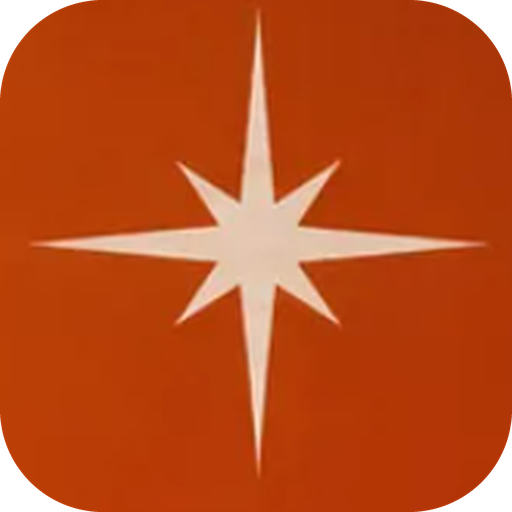
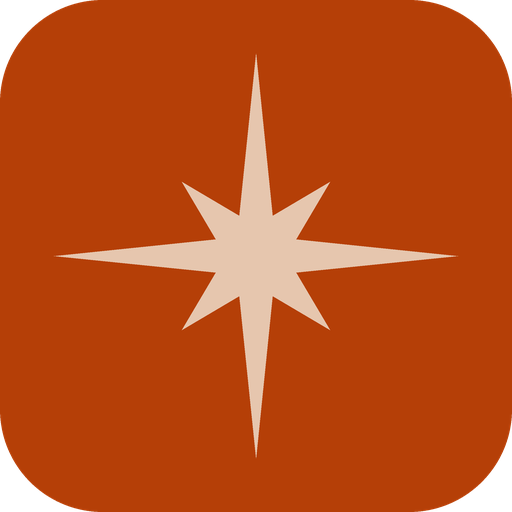
Ícone do topo em vetor, nítido, de volta à direita; rodapé com o mesmo ícone
Estrela redesenhada com as medidas do ícone oficial (4 pontas longas,
4 diagonais curtas) e as mesmas cores.

Changed region(s): [[0.0625, 0.0312, 0.9688, 0.9375]]

diff --git a/index.html b/index.html
@@ -72,12 +72,9 @@
 
   <section class="hero hero--marca">
     <div class="hero-content">
-      <div class="container">
+      <div class="container hero-marca-grid">
         <div>
-        <picture class="hero-icone">
-          <source srcset="/assets/img/icone-hero.webp" type="image/webp">
-          <img src="/assets/img/icone-hero.png" width="512" height="512" alt="Ícone da Bertoluchi" fetchpriority="high">
-        </picture>
+        <span class="eyebrow">Publicidade e marketing digital</span>
         <h1 class="hero-headline">Torne seu negócio uma referência nas redes sociais</h1>
         <p class="hero-sub">Social media com estratégia, criação de conteúdo de alta qualidade e branding, para marcas que querem crescer com consistência. E, quando faz sentido, conectamos sua marca às influenciadoras certas.</p>
         <div class="hero-actions">
@@ -85,6 +82,7 @@
           <a class="btn btn-outline" href="/servicos.html">Conhecer serviços</a>
         </div>
         </div>
+        <img class="hero-icone" src="/assets/img/icone-bertoluchi.svg" width="360" height="360" alt="Ícone da Bertoluchi" fetchpriority="high">
       </div>
     </div>
   </section>

diff --git a/assets/css/style.css b/assets/css/style.css
@@ -1185,6 +1185,6 @@ a.story-card:hover .story-cta{ background: #fff; color: var(--color-text); -webk
   color: rgba(255,255,255,0.85); -webkit-text-fill-color: rgba(255,255,255,0.85);
 }
 
-/* Topo: so o icone oficial da logo, no lugar onde ficava a logo */
-.hero-icone{ display: block; width: clamp(110px, 12vw, 170px); margin: 0 0 clamp(32px, 5vw, 56px); }
-.hero-icone img{ width: 100%; height: auto; display: block; }
+/* Topo: icone oficial da logo, grande, a direita (vetor, nitido em qualquer tela) */
+.hero-icone{ display: block; width: clamp(200px, 26vw, 360px); height: auto; filter: drop-shadow(0 28px 44px rgba(124,51,8,0.30)); }
+@media (max-width: 860px){ .hero-icone{ order: -1; width: 120px; margin-bottom: 28px; } }

diff --git a/_generator/build.py b/_generator/build.py
@@ -155,12 +155,9 @@ def build_home():
 
   <section class="hero hero--marca">
     <div class="hero-content">
-      <div class="container">
+      <div class="container hero-marca-grid">
         <div>
-        <picture class="hero-icone">
-          <source srcset="/assets/img/icone-hero.webp" type="image/webp">
-          <img src="/assets/img/icone-hero.png" width="512" height="512" alt="Ícone da Bertoluchi" fetchpriority="high">
-        </picture>
+        <span class="eyebrow">Publicidade e marketing digital</span>
         <h1 class="hero-headline">Torne seu negócio uma referência nas redes sociais</h1>
         <p class="hero-sub">Social media com estratégia, criação de conteúdo de alta qualidade e branding, para marcas que querem crescer com consistência. E, quando faz sentido, conectamos sua marca às influenciadoras certas.</p>
         <div class="hero-actions">
@@ -168,6 +165,7 @@ def build_home():
           <a class="btn btn-outline" href="/servicos.html">Conhecer serviços</a>
         </div>
         </div>
+        <img class="hero-icone" src="/assets/img/icone-bertoluchi.svg" width="360" height="360" alt="Ícone da Bertoluchi" fetchpriority="high">
       </div>
     </div>
   </section>
